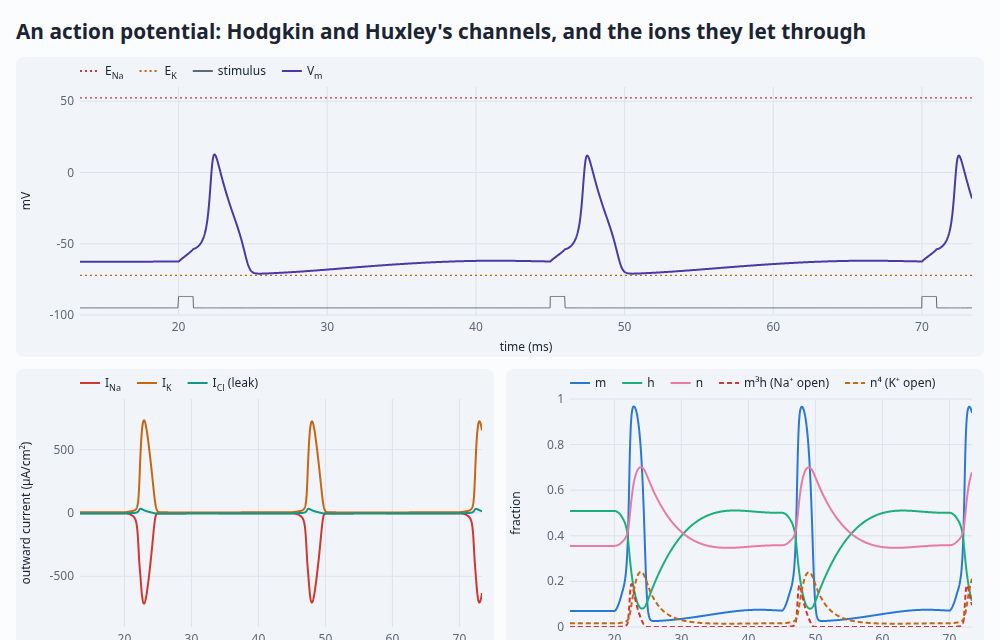
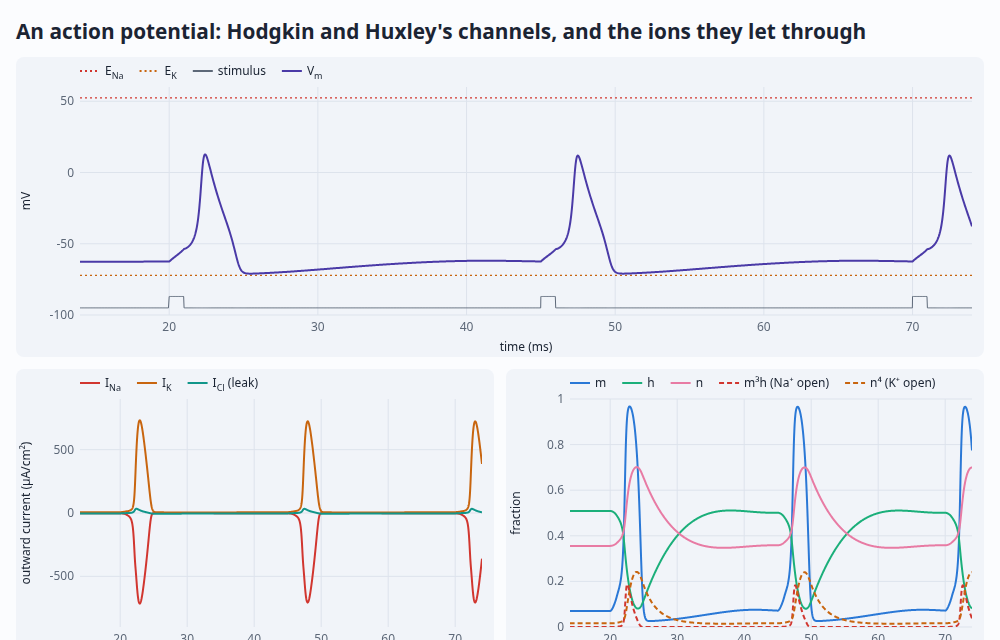
Demo: an action potential travelling along an axon, cable theory out of the ions
Six centimetres of squid giant axon along x: the axoplasm's ions drifting in the field along it,
the membrane a gated port all along. The spike travels at 18.7 m/s; the page shows it along the
axon with its membrane currents (the capacitive one charging the membrane ahead, I_Na at the
front, I_K behind), the gates along x, the current along the axoplasm by the ions that carry it
(about 80% K⁺: the local circuit, which the cable equation can't break down), recordings at
three sites with the measured speed, and each ion's driving force along the axon as species
voltages against outside. Regimes checked in Node first: speed as √a (3.81 m/s at 10 µm against
√a's 3.84), heat block between 34.5 and 35 °C (at 31–34.5 °C it still travels, peaking below
0 mV, so the speed is timed at −30 mV), 60% of the Na⁺ channels at 15 m/s and 40% failing,
concentrations changing by ~8e-6 per spike in the giant axon and 2e-4 at 10 µm.

Both action-potential pages hold their ?t= frame (for screenshots) instead of playing on.

diff --git a/demos/propagation.html b/demos/propagation.html
@@ -1,0 +1,278 @@
+<!doctype html>
+<html lang="en">
+<head>
+<meta charset="utf-8">
+<meta name="viewport" content="width=device-width, initial-scale=1">
+<title>Propagation</title>
+<link rel="icon" href="favicon.svg" type="image/svg+xml">
+<link rel="stylesheet" href="style.css">
+</head>
+<body>
+<main>
+<nav class="site"><a href="./">← all demos</a><a href="https://github.com/markblundeberg/driftlet">driftlet on GitHub</a></nav>
+  <h1>An action potential travels: cable theory out of the ions</h1>
+  <p>Six centimetres of a squid giant axon, along its length. The axoplasm is a salt solution whose ions drift in
+    the field along it; the membrane, all along, is a capacitor with Hodgkin and Huxley's channels to the sea water
+    outside. Stimulate one end and the spike runs down the axon at 18.7 m/s, within half a percent of the
+    18.8 m/s Hodgkin and Huxley computed, though nothing of cable theory is put in. Watch what carries it: the current along the axon is mostly
+    K⁺, not the Na⁺ that enters. Vary the axon's radius (speed goes as its square root), the temperature, and
+    block Na⁺ channels. (More about the model below.)</p>
+  <div class="controls" id="controls">
+    <label>radius <input id="radius" type="range" min="1" max="2.7" step="0.05" value="2.377"><output id="radiusOut"></output></label>
+    <label>temperature <input id="temp" type="range" min="6.3" max="35" step="0.1" value="18.5"><output id="tempOut"></output></label>
+    <label>Na⁺ channels <input id="na" type="range" min="0" max="100" step="5" value="100"><output id="naOut"></output></label>
+    <label>stimulus every <input id="period" type="range" min="5" max="30" step="1" value="12"><output id="periodOut"></output></label>
+    <label>playback <select id="pace">
+      <option value="0.00025">0.25 ms a second</option>
+      <option value="0.001" selected>1 ms a second</option>
+      <option value="0">as fast as it solves</option>
+    </select></label>
+    <span class="readout" id="status"></span>
+  </div>
+  <div class="grid">
+    <canvas class="wide" id="vx"></canvas>
+    <canvas id="ix"></canvas>
+    <canvas id="gx"></canvas>
+    <canvas id="jx"></canvas>
+    <canvas id="vt"></canvas>
+    <div class="levels wide" id="levels"></div>
+  </div>
+  <h2>About this simulation</h2>
+  <p>x runs along the axon, so the axoplasm is one region 6 cm long, sealed at both ends, and the membrane is a
+    <a href="https://github.com/markblundeberg/driftlet/blob/master/docs/device.md#a-membrane-through-a-window-gated-channels">port</a>
+    through all of it: a capacitance (1 µF/cm²) and Hodgkin and Huxley's Na⁺, K⁺ and leak channels, each a
+    conductance gated by m³h, n⁴ or nothing, from the voltage across the membrane at that point to the sea water
+    outside. A cylinder of radius a has 2/a of membrane per volume of axoplasm. The sea water is held at its
+    composition and at φ = 0: it's big enough that its resistance doesn't matter (Hodgkin and Huxley's assumption
+    too). The axoplasm is strictly neutral, its ions (K⁺ 400, Na⁺ 50, Cl⁻ 52 mM, and impermeant anions) diffusing
+    and drifting along x, with diffusivities that give Hodgkin and Huxley's resistivity, 35.4 Ω·cm. The
+    concentrations put each ion's Nernst potential at their reversal potentials (Na⁺ +50, K⁺ −77, leak −54 mV)
+    at 18.5 °C, their axon's temperature. The stimulus is K⁺ injected into the first millimetre for 0.2 ms.</p>
+  <p>Nothing here is the cable equation, but it comes out. Where the membrane is depolarised, current flows on
+    along the axoplasm and out through the membrane ahead, charging it (the capacitive current); past threshold
+    there, Na⁺ channels open and the spike moves on. Behind it, Na⁺ inactivation and open K⁺ channels leave the
+    membrane refractory, so it can't turn back. Its speed matches the cable equation, solved separately, to 2e-3
+    (18.73 m/s at their 238 µm; they computed 18.8 by hand), and goes as the square root of the radius, which is
+    why the squid's axon is giant and ours are wrapped in myelin instead. Warmer, every gate is faster (three
+    times per 10 °C) and so is the spike, but it shrinks: at 30 °C it travels at 24 m/s and barely reaches 0 mV,
+    at 34.5 °C it still travels, peaking at −20 mV, and at 35 °C it dies out within a few centimetres: heat
+    block. With 60% of the Na⁺ channels it slows to 15 m/s; with 40% it can't propagate at all.</p>
+  <p>What the cable equation can't say is which ions carry the current. Along the axoplasm it's carried by every
+    ion in proportion to its conductivity: about 80% by K⁺, the most abundant, whatever crosses the membrane
+    (Na⁺ and Cl⁻, with one diffusivity and nearly one concentration here, carry equal shares). The Na⁺ that
+    enters at the front mostly stays near where it came in, and the concentrations hardly change: by a few parts
+    per million per spike in the giant axon, and about two in ten thousand in one of 10 µm, whose membrane
+    is 24 times larger for its volume. The level diagram draws each ion's
+    <a href="https://github.com/markblundeberg/driftlet/blob/master/docs/visualization.md">species voltage</a>
+    V<sub>i</sub> = μ̄<sub>i</sub>/(z<sub>i</sub>F) inside, its electrochemical potential in volts, against its level
+    outside: each line is that ion's driving force across the membrane, V<sub>m</sub> − E<sub>i</sub>, all along the
+    axon, and φ's is V<sub>m</sub> itself. At the spike's peak Na⁺'s line comes halfway up toward zero, its
+    equilibrium (the peak, about +25 mV, is 25 mV short of E<sub>Na</sub>), while K⁺'s is driven furthest from
+    its own, ready to pull the membrane back.</p>
+</main>
+<script type="module">
+import { Device, FARADAY, GAS_CONSTANT } from '../src/index.js';
+import { hodgkinHuxley, injector, square, traces, speciesRole } from '../src/kit.js';
+import { levelChart, themeColor } from '../src/plot.js';
+import { chart, colors } from './plot.js';
+import { showCode, fromQuery, pauser } from './common.js';
+
+const mV = 1e-3, z = { 'Na+': 1, 'K+': 1, 'Cl-': -1, 'A-': -1 };
+const L = 0.06, H = 2e-4, SETTLE = 30e-3, WINDOW = 12e-3, SITES = [0.01, 0.03, 0.05];
+// Concentrations putting the Nernst potentials at Hodgkin and Huxley's reversal potentials at 18.5 °C.
+const T0 = 273.15 + 18.5, VT0 = (GAS_CONSTANT * T0) / FARADAY;
+const IN = { 'Na+': 50, 'K+': 400, 'Cl-': 52.5, 'A-': 397.5 };
+const E0 = { 'Na+': 50 * mV, 'K+': -77 * mV, 'Cl-': -54.387 * mV };
+const OUT = Object.fromEntries(['Na+', 'K+', 'Cl-'].map((s) => [s, IN[s] * Math.exp((z[s] * E0[s]) / VT0)]));
+const G = { 'Na+': 1200, 'K+': 360, 'Cl-': 3 }; // S/m² of membrane
+// The small ions' diffusivity, for a resistivity of 35.4 Ω·cm; the impermeant anions barely move.
+const DA = 1e-11, D = (1 / 0.354 / ((FARADAY * FARADAY) / (GAS_CONSTANT * T0)) - DA * IN['A-']) / (IN['Na+'] + IN['K+'] + IN['Cl-']);
+const Dof = { 'Na+': D, 'K+': D, 'Cl-': D, 'A-': DA };
+
+const axon = (p) => {
+  const am = 2 / p.a, VT = (GAS_CONSTANT * p.T) / FARADAY;
+  const gates = hodgkinHuxley({ inside: IN, outside: { ...OUT, 'A-': 1 }, T: p.T }).gates;
+  const offset = (s) => (VT / z[s]) * Math.log(OUT[s] / 1000); // the level outside, against φ there
+  const sp = (Dv) => ({ D: Dv, mu0: 0, cRef: 1000 });
+  const sealed = { species: { 'Na+': 'blocked', 'K+': 'blocked', 'Cl-': 'blocked', 'A-': 'blocked' }, phi: 'neutral' };
+  return {
+    T: p.T,
+    species: Object.entries(z).map(([name, zz]) => ({ name, z: zz })),
+    materials: { axoplasm: { epsr: 0, species: Object.fromEntries(Object.keys(z).map((s) => [s, sp(Dof[s])])) } },
+    regions: [{ name: 'axon', material: 'axoplasm', length: L, c0: IN }],
+    contacts: { left: sealed, right: sealed },
+    ports: [
+      {
+        name: 'membrane', region: 'axon', V: 0, terminal: 'K+', area: am, capacitance: { C: 0.01, zeroCharge: 0 }, gates,
+        species: {
+          // (Na⁺ channels fully blocked keep a millionth open: blocked outright, the state wouldn't carry over)
+          'Na+': { type: 'conductance', G: G['Na+'] * am * Math.max(p.na, 1e-6), offset: offset('Na+'), gates: { m: 3, h: 1 } },
+          'K+': { type: 'conductance', G: G['K+'] * am, offset: offset('K+'), gates: { n: 4 } },
+          'Cl-': { type: 'conductance', G: G['Cl-'] * am, offset: offset('Cl-') }, // the leak
+        },
+      },
+      // K⁺ into the first millimetre, 0.2 ms at a time: the same charge per area of membrane at any radius
+      injector({ name: 'stim', region: 'axon', from: 0, to: 1e-3, species: 'K+', I: p.started ? stimulus(p) : 0 }),
+    ],
+    grid: { hmin: H, hmax: H },
+  };
+};
+const stimulus = (p) => square({ high: 30 * (238e-6 / p.a), low: 0, period: p.period, duty: 0.2e-3 / p.period });
+
+const els = Object.fromEntries(['radius', 'temp', 'na', 'period', 'pace'].map((id) => [id, document.getElementById(id)]));
+for (const el of Object.values(els)) fromQuery(el);
+const params = () => ({ a: 10 ** +els.radius.value * 1e-6, T: 273.15 + +els.temp.value, na: +els.na.value / 100, period: +els.period.value / 1000 });
+function showControls() {
+  const p = params();
+  document.getElementById('radiusOut').textContent = `${(p.a * 1e6).toPrecision(3)} µm`;
+  document.getElementById('tempOut').textContent = `${(+els.temp.value).toFixed(1)} °C`;
+  document.getElementById('naOut').textContent = `${els.na.value}%`;
+  document.getElementById('periodOut').textContent = `${els.period.value} ms`;
+  return p;
+}
+
+// Recordings at three sites (V_m there: φ outside is 0), at every step.
+const probes = SITES.map((x) => ({ x, quantity: 'phi' }));
+let d, rec, speed = NaN;
+function start() {
+  const p = showControls();
+  d = new Device(axon(p));
+  d.advance(SETTLE, { tol: 1e-4 }); // from the concentrations given, to rest (no pump: no steady state)
+  d.set(axon({ ...p, started: true }));
+  rec = { t: [], V: SITES.map(() => []) };
+}
+// The latest spike's speed, from when it crossed −30 mV going up at the first and last sites (a warm
+// axon's spike can peak below 0 mV and still travel).
+const ups = SITES.map(() => []);
+function keep(sol) {
+  const { t, probes: pr } = sol.trace;
+  for (let k = 1; k < t.length; k++) {
+    rec.t.push(t[k]);
+    SITES.forEach((_, j) => {
+      const v0 = pr[j][k - 1], v1 = pr[j][k];
+      rec.V[j].push(v1);
+      if (v0 < -0.03 && v1 >= -0.03) ups[j].push(t[k - 1] + ((t[k] - t[k - 1]) * (-0.03 - v0)) / (v1 - v0));
+    });
+  }
+  const last = ups[2].at(-1), first = ups[0].filter((x) => x < last).at(-1);
+  if (last !== undefined && first !== undefined && last - first < 0.2) speed = (SITES[2] - SITES[0]) / (last - first);
+  const cut = rec.t.findIndex((x) => x >= t.at(-1) - 1.2 * WINDOW);
+  if (cut > 0) {
+    rec.t.splice(0, cut);
+    for (const v of rec.V) v.splice(0, cut);
+  }
+}
+
+const dark = typeof matchMedia === 'function' && matchMedia('(prefers-color-scheme: dark)').matches;
+function draw() {
+  const sol = d.solution(), p = params(), t = sol.time, VT = (GAS_CONSTANT * p.T) / FARADAY, am = 2 / p.a;
+  const col = (s) => {
+    const { role, slot } = speciesRole(sol, s);
+    return themeColor(role, slot, { dark });
+  };
+  const mem = sol.ports[0], xcm = Array.from(sol.x, (x) => 100 * x), Vm = Array.from(mem.Vm);
+  const E = (s, g) => (VT / z[s]) * Math.log(OUT[s] / sol.c[s][g]);
+  const fresh = Number.isFinite(speed) && ups[2].at(-1) > t - 3 * p.period;
+  document.getElementById('status').textContent =
+    `t ${(1000 * (t - SETTLE)).toFixed(2)} ms · speed ${fresh ? `${speed.toFixed(2)} m/s` : '— (no spike reaching 5 cm)'} · cable theory's √a scaling from Hodgkin and Huxley's axon: ${(18.73 * Math.sqrt(p.a / 238e-6)).toFixed(2)} m/s at 18.5 °C`;
+  const sites = SITES.map((x) => ({ x: [100 * x, 100 * x], y: [-100, 60], color: 'var(--muted)', width: 0.8, dash: [2, 4] }));
+  chart(document.getElementById('vx'), {
+    xlabel: 'x along the axon (cm)', ylabel: 'V_m (mV)', xlim: [0, 100 * L], ylim: [-100, 60],
+    series: [
+      ...sites,
+      { x: [0, 100 * L], y: [1000 * E('Na+', 0), 1000 * E('Na+', 0)], color: col('Na+'), dash: [2, 3], width: 1.2, label: 'E_Na' },
+      { x: [0, 100 * L], y: [1000 * E('K+', 0), 1000 * E('K+', 0)], color: col('K+'), dash: [2, 3], width: 1.2, label: 'E_K' },
+      { x: xcm, y: Vm.map((v) => 1000 * v), color: colors[6], width: 2.2, label: 'V_m' },
+    ],
+  });
+  // Membrane currents, outward per area (µA/cm²): each channel's, and the capacitive one that charges the
+  // membrane ahead, from what leaves the axoplasm there, (−∂j/∂x)/a_m, less the channels'.
+  const ion = (s, gate) => Vm.map((v, g) => 100 * G[s] * (s === 'Na+' ? Math.max(p.na, 1e-6) : 1) * gate(g) * (v - E(s, g)));
+  const { m, h, n } = mem.gates;
+  const INa = ion('Na+', (g) => m[g] ** 3 * h[g]), IK = ion('K+', (g) => n[g] ** 4), IL = ion('Cl-', () => 1);
+  // Along the axoplasm, each ion's current, −(z²F²Dc/RT) ∂V_i/∂x, between the nodes.
+  const RT = GAS_CONSTANT * p.T, xm = xcm.slice(1).map((x, g) => (x + xcm[g]) / 2);
+  const axial = (s) => xm.map((_, g) => (-(FARADAY * FARADAY) * Dof[s] * 0.5 * (sol.c[s][g] + sol.c[s][g + 1]) * (sol.V[s][g + 1] - sol.V[s][g])) / (RT * (sol.x[g + 1] - sol.x[g])));
+  const J = Object.fromEntries(['K+', 'Na+', 'Cl-'].map((s) => [s, axial(s)]));
+  const total = xm.map((_, g) => J['K+'][g] + J['Na+'][g] + J['Cl-'][g]);
+  const IC = Vm.map((_, g) => {
+    if (g === 0 || g === Vm.length - 1) return NaN;
+    const div = (total[g] - total[g - 1]) / (sol.x[g + 1] - sol.x[g - 1]) * 2;
+    return 100 * (-div / am) - (INa[g] + IK[g] + IL[g]);
+  });
+  chart(document.getElementById('ix'), {
+    xlabel: 'x along the axon (cm)', ylabel: 'outward through the membrane (µA/cm²)', xlim: [0, 100 * L], ylim: [-1200, 1200],
+    series: [
+      { x: xcm, y: IC, color: colors[6], width: 1.2, label: 'capacitive' },
+      { x: xcm, y: INa, color: col('Na+'), label: 'I_Na' },
+      { x: xcm, y: IK, color: col('K+'), label: 'I_K' },
+    ],
+  });
+  chart(document.getElementById('gx'), {
+    xlabel: 'x along the axon (cm)', ylabel: 'fraction', xlim: [0, 100 * L], ylim: [0, 1],
+    series: [
+      { x: xcm, y: Array.from(m), color: colors[0], label: 'm' },
+      { x: xcm, y: Array.from(h), color: colors[2], label: 'h' },
+      { x: xcm, y: Array.from(n), color: colors[4], label: 'n' },
+    ],
+  });
+  // in µA through the whole axon (j × πa²)
+  const area = Math.PI * p.a * p.a * 1e6;
+  chart(document.getElementById('jx'), {
+    xlabel: 'x along the axon (cm)', ylabel: 'current along the axon (µA)', xlim: [0, 100 * L],
+    series: [
+      { x: xm, y: total.map((v) => v * area), color: colors[6], width: 1.2, label: 'total' },
+      ...['K+', 'Cl-', 'Na+'].map((s) => ({ x: xm, y: J[s].map((v) => v * area), color: col(s), label: `carried by ${{ 'Na+': 'Na⁺', 'K+': 'K⁺', 'Cl-': 'Cl⁻' }[s]}` })),
+    ],
+  });
+  const ms = rec.t.map((x) => 1000 * (x - SETTLE)), x1 = 1000 * (t - SETTLE);
+  chart(document.getElementById('vt'), {
+    xlabel: 'time (ms)', ylabel: 'V_m (mV)', xlim: [x1 - 1000 * WINDOW, x1], ylim: [-100, 60],
+    series: SITES.map((x, j) => ({ x: ms, y: rec.V[j].map((v) => 1000 * v), color: colors[[0, 3, 7][j]], label: `at ${100 * x} cm` })),
+  });
+  // Each ion's species voltage inside, against its level outside: its driving force, V_m − E_i.
+  const tr = traces(sol, { species: ['Na+', 'K+', 'Cl-'], standard: false, phi: true });
+  for (const s of tr.series) {
+    const out = s.id === 'phi' ? 0 : (VT / z[s.species]) * Math.log(OUT[s.species] / 1000);
+    s.y = s.y.map((v) => 1000 * (v - out));
+  }
+  document.getElementById('levels').innerHTML = levelChart(tr, { width: 720, height: 340, title: 'species voltages along the axon, against outside: each ion\'s driving force', ylabel: 'against outside (mV)', range: [-150, 160] });
+}
+
+// Played back at a pace, on and on; each frame advances in a time budget.
+let last, looping = false;
+function frame(now = performance.now()) {
+  const wall = Math.min(0.1, (now - (last ?? now)) / 1000);
+  last = now;
+  const t = d.solver.time, perSecond = +els.pace.value;
+  const sol = d.advance(perSecond > 0 ? t + wall * perSecond : t + 0.05, { budgetMs: 12, tol: 1e-4, dtMax: 1e-5, probes });
+  keep(sol);
+  draw();
+  if (sol.converged && !pause.paused) requestAnimationFrame(frame);
+  else looping = false;
+}
+const pause = pauser(document.getElementById('controls'), () => {
+  if (looping) return;
+  last = undefined;
+  looping = true;
+  requestAnimationFrame(frame);
+});
+
+start();
+// ?t=… ms: straight there, and held (for screenshots).
+const jump = +new URLSearchParams(location.search).get('t') / 1000 || 0;
+if (jump > 0) keep(d.advance(SETTLE + jump, { tol: 1e-4, dtMax: 1e-5, probes }));
+draw();
+// (held there, for a screenshot; otherwise on)
+if (!jump) {
+  looping = true;
+  requestAnimationFrame(frame);
+}
+
+// The stimulus's interval changes in place; the axon itself, by rebuilding (the state carries over).
+els.period.addEventListener('input', () => d.set({ ports: { stim: { I: stimulus(showControls()) } } }));
+for (const id of ['radius', 'temp', 'na']) els[id].addEventListener('input', () => d.set(axon({ ...showControls(), started: true })));
+showCode();
+</script>
+</body>
+</html>

diff --git a/demos/index.html b/demos/index.html
@@ -40,6 +40,7 @@
     <a class="card" href="channel.html"><img src="screenshots/channel.png" alt="a charged nanochannel"><div><b>Charged nanochannel</b><span>A channel's charged walls: Donnan layers at each mouth that overlap in dilute salt, K⁺ selectivity, a conductance plateau against Teorell–Meyer–Sievers, and a bipolar channel that rectifies like a pn junction.</span></div></a>
     <a class="card" href="cell.html"><img src="screenshots/cell.png" alt="a cell's resting potential"><div><b>Resting potential</b><span>A cell membrane's leaks and the Na⁺/K⁺ pump: V<sub>m</sub> against Mullins–Noda, each ion's driving force, and the run-down to Donnan equilibrium when the pump stops.</span></div></a>
     <a class="card" href="axon.html"><img src="screenshots/axon.png" alt="an action potential"><div><b>Action potential</b><span>Hodgkin and Huxley's voltage-gated channels, with the ions solved for: the spike, its currents and gates, and each ion's driving force through it; temperature, TTX and TEA.</span></div></a>
+    <a class="card" href="propagation.html"><img src="screenshots/propagation.png" alt="an action potential travelling along an axon"><div><b>Propagation</b><span>An action potential travelling along a squid axon, at Hodgkin and Huxley's speed, out of the ions drifting along it: the local circuit, which ions carry it, and each one's driving force along the axon; radius, temperature, TTX.</span></div></a>
     <a class="card" href="membrane.html"><img src="screenshots/membrane.png" alt="ion-exchange membrane"><div><b>Ion-exchange membrane</b><span>Donnan exclusion and permselectivity, ion by ion, against Teorell–Meyer–Sievers theory; unstirred layers.</span></div></a>
     <a class="card" href="double-layer.html"><img src="screenshots/double-layer.png" alt="double layer"><div><b>Double layer</b><span>Ideal against crowded (lattice-gas) ions at a blocking electrode, each against its closed-form theory; ion by ion.</span></div></a>
     <a class="card" href="insertion.html"><img src="screenshots/insertion.png" alt="intercalation host"><div><b>Intercalation host</b><span>Galvanostatic cycling between cutoffs: the loop settling against a regular-solution OCV, Li⁺ and e⁻ level by level.</span></div></a>

diff --git a/demos/axon.html b/demos/axon.html
@@ -229,12 +229,15 @@ const pause = pauser(document.getElementById('controls'), () => {
 });
 
 start();
-// ?t=… ms: straight there (for screenshots), then on.
+// ?t=… ms: straight there, and held (for screenshots).
 const jump = +new URLSearchParams(location.search).get('t') / 1000 || 0;
 if (jump > 0) keep(d.advance(SETTLE + jump, { tol: 1e-4, dtMax: 5e-5, probes }));
 draw();
-looping = true;
-requestAnimationFrame(frame);
+// (held there, for a screenshot; otherwise on)
+if (!jump) {
+  looping = true;
+  requestAnimationFrame(frame);
+}
 
 // The stimulus changes in place; the channels, by rebuilding (the state carries over).
 for (const id of ['I', 'period']) els[id].addEventListener('input', () => d.set({ ports: { stim: { I: stimulus(showControls()) } } }));

diff --git a/tools/shots.js b/tools/shots.js
@@ -23,7 +23,8 @@ const SHOTS = {
   saturation: { query: 't=0.53', budget: 60000 },
   impedance: { query: 'f=1.25&phase=15', budget: 60000 },
   cell: { query: '', budget: 60000 },
-  axon: { query: 't=72.2', budget: 60000 },
+  axon: { query: 't=74', budget: 60000 },
+  propagation: { query: 't=19.9', budget: 60000 },
   channel: { query: '', budget: 60000 },
   junction: { query: 't=5', budget: 60000 },
   membrane: { query: '', budget: 60000 },

diff --git a/README.md b/README.md
@@ -141,8 +141,8 @@ them locally, serve the repository root (e.g. `python3 -m http.server`) and open
 | **Intercalation host**: cycling between cutoffs against the OCV | **Organic solar cell**: excitons diffusing to a donor/acceptor interface, against theory | **Perovskite hysteresis**: mobile ions and scan rate, against IonMonger |
 | [![charged nanochannel](demos/screenshots/channel.png)](https://markblundeberg.github.io/driftlet/demos/channel.html) | [![resting potential](demos/screenshots/cell.png)](https://markblundeberg.github.io/driftlet/demos/cell.html) | [![liquid junctions](demos/screenshots/junction.png)](https://markblundeberg.github.io/driftlet/demos/junction.html) |
 | **Charged nanochannel**: selectivity, overlapping Donnan layers and rectification, against Teorell–Meyer–Sievers | **Resting potential**: leaks and the Na⁺/K⁺ pump, against Mullins–Noda; the run-down to Donnan | **Liquid junctions**: a patch pipette's against Henderson, Planck and LJPcalc; a charged frit |
-| [![action potential](demos/screenshots/axon.png)](https://markblundeberg.github.io/driftlet/demos/axon.html) | | |
-| **Action potential**: Hodgkin and Huxley's gated channels, each ion's driving force through the spike, against the HH equations | | |
+| [![action potential](demos/screenshots/axon.png)](https://markblundeberg.github.io/driftlet/demos/axon.html) | [![propagation](demos/screenshots/propagation.png)](https://markblundeberg.github.io/driftlet/demos/propagation.html) | |
+| **Action potential**: Hodgkin and Huxley's gated channels, each ion's driving force through the spike, against the HH equations | **Propagation**: a spike travelling along an axon at HH's speed, out of the ions' drift; which ions carry it | |
 
 ## Is it for your problem?
 

diff --git a/CHANGELOG.md b/CHANGELOG.md
@@ -17,6 +17,10 @@ driftlet follows semantic versioning; while it's 0.x, a minor version may change
   Huxley's linear channels, in species voltages). A squid axon's action potential propagates
   at 18.73 m/s, the cable equation's speed to 2e-3, out of the ions' drift along the axon
   (Hodgkin and Huxley computed 18.8). Face conductance links can be gated as well.
+- A demo, [propagation](demos/propagation.html): a spike travelling along a squid axon at Hodgkin
+  and Huxley's speed, its local circuit, the ions that carry the current along the axon (mostly
+  K⁺), and each ion's driving force along it; radius (speed as √a), temperature (heat block at
+  35 °C), Na⁺ channel block.
 - A demo, [action potential](demos/axon.html): a squid axon's spikes, their currents and gates,
   and each ion's driving force through them; the stimulus, temperature, and Na⁺ and K⁺ channel
   block.
